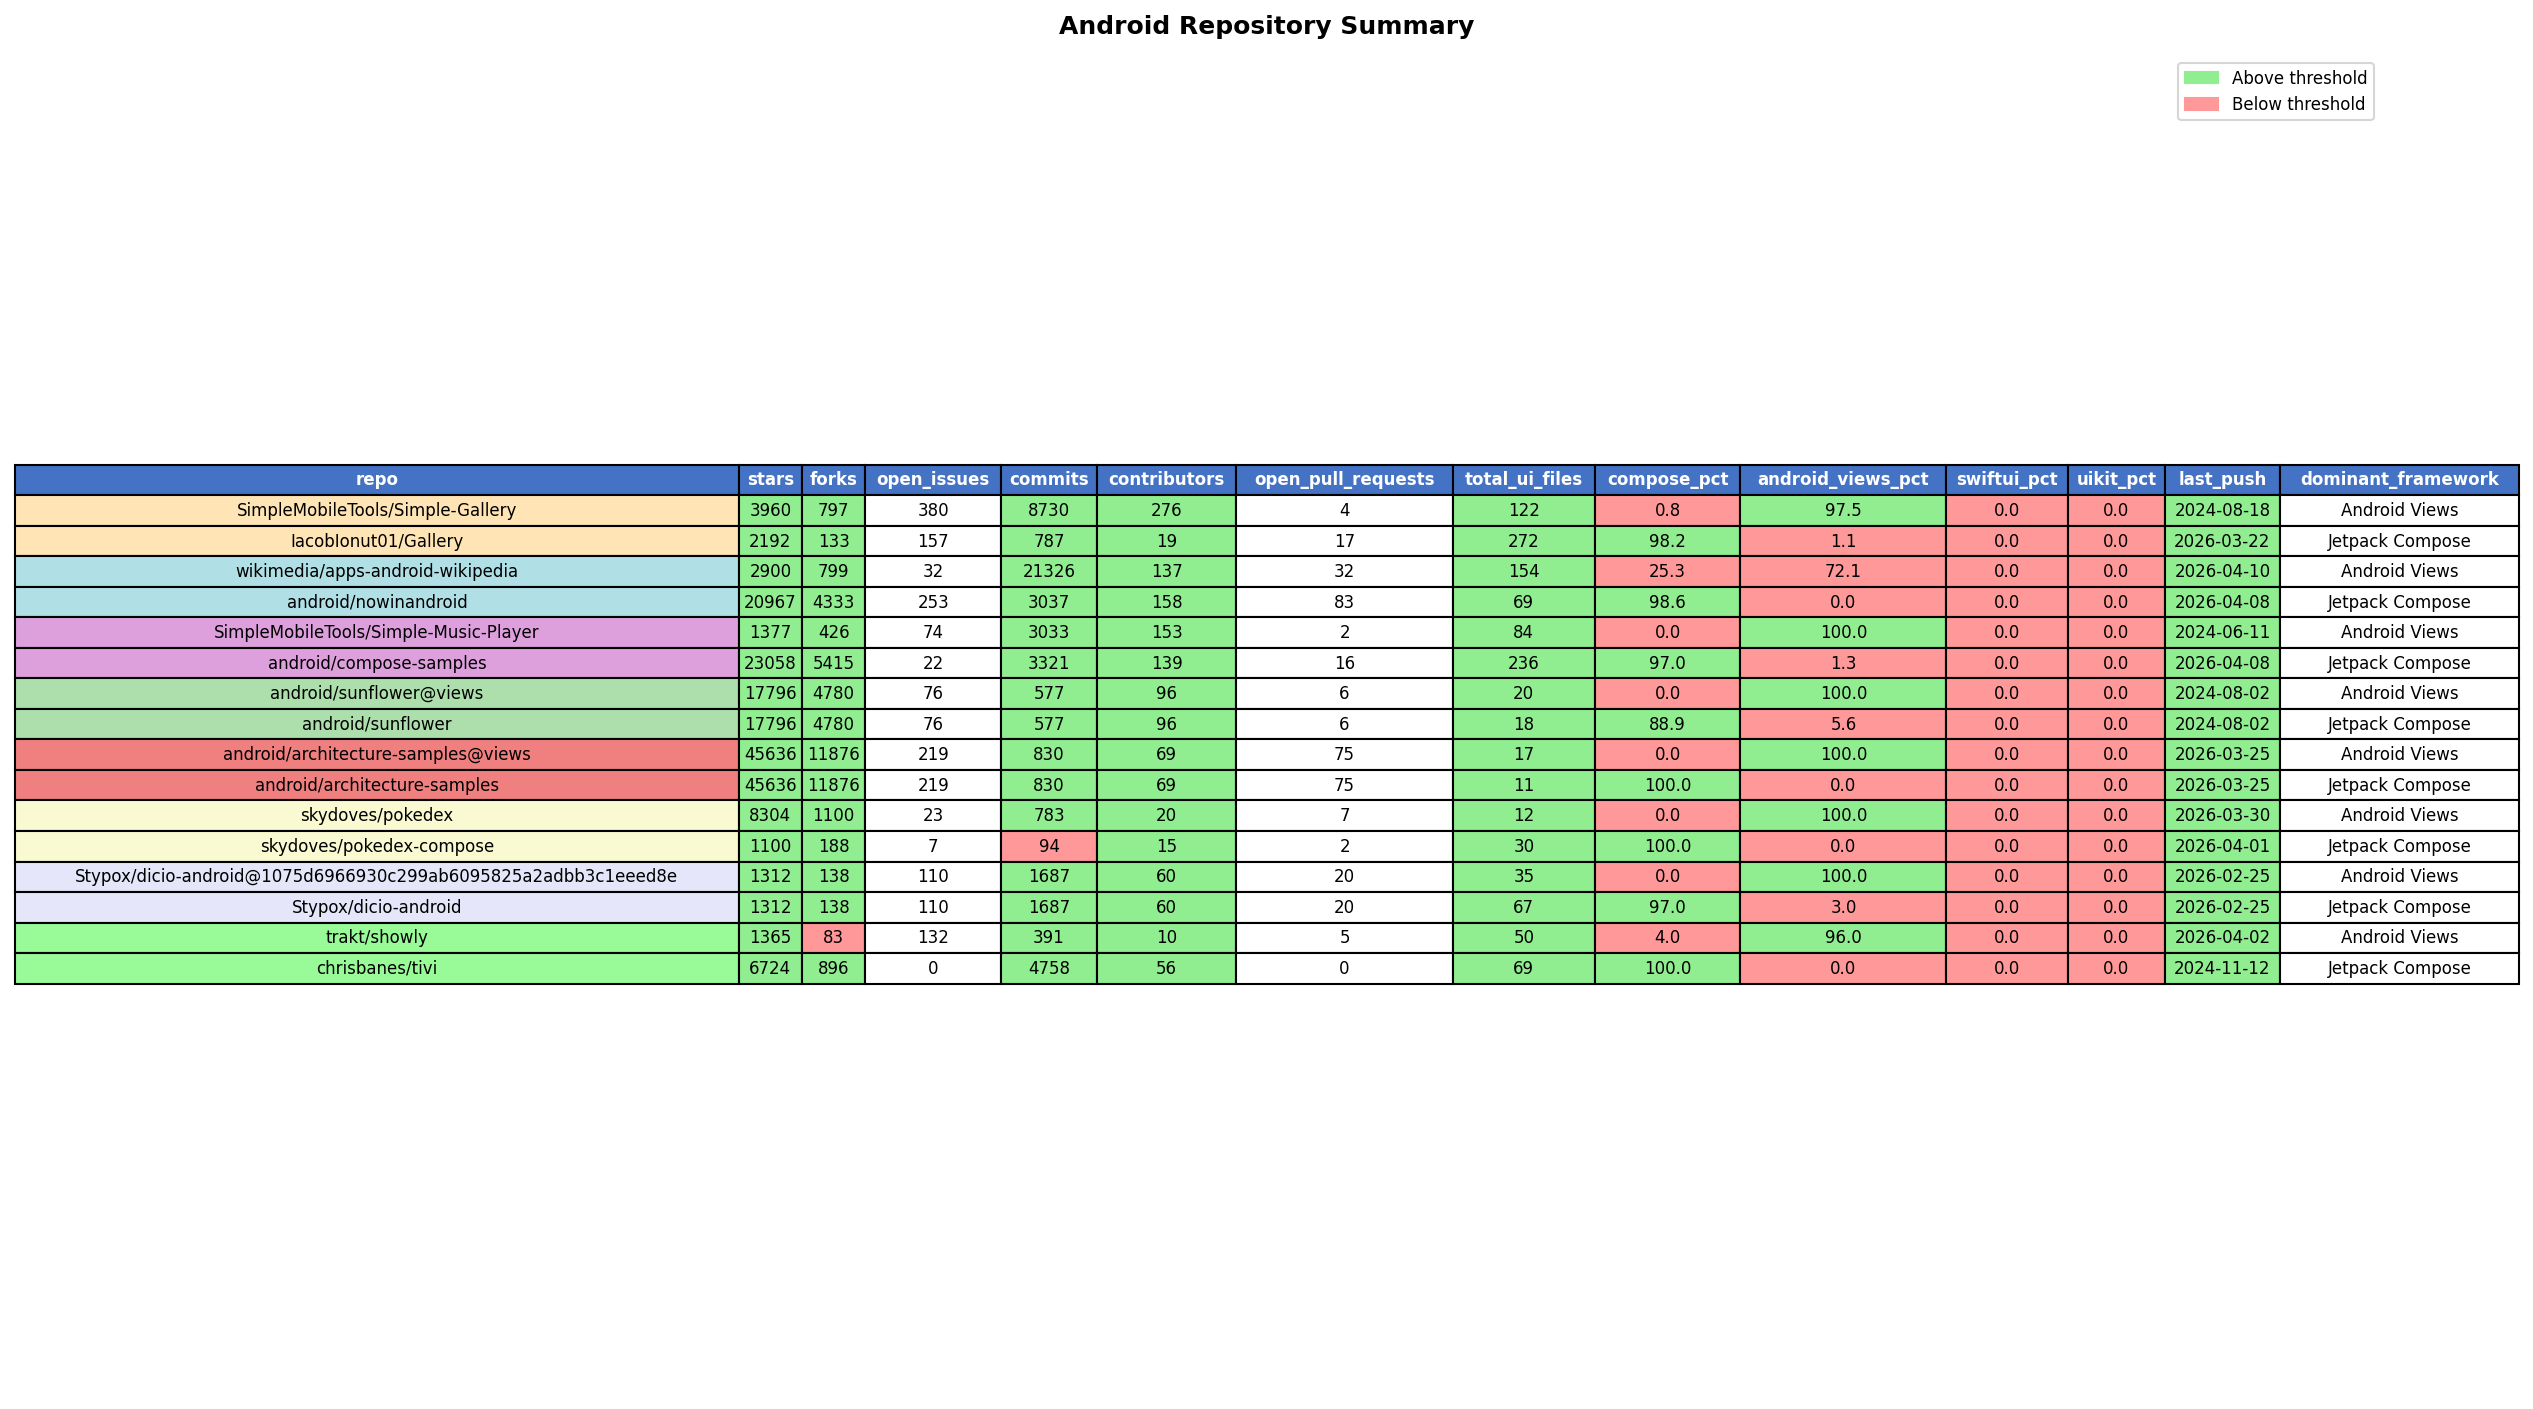
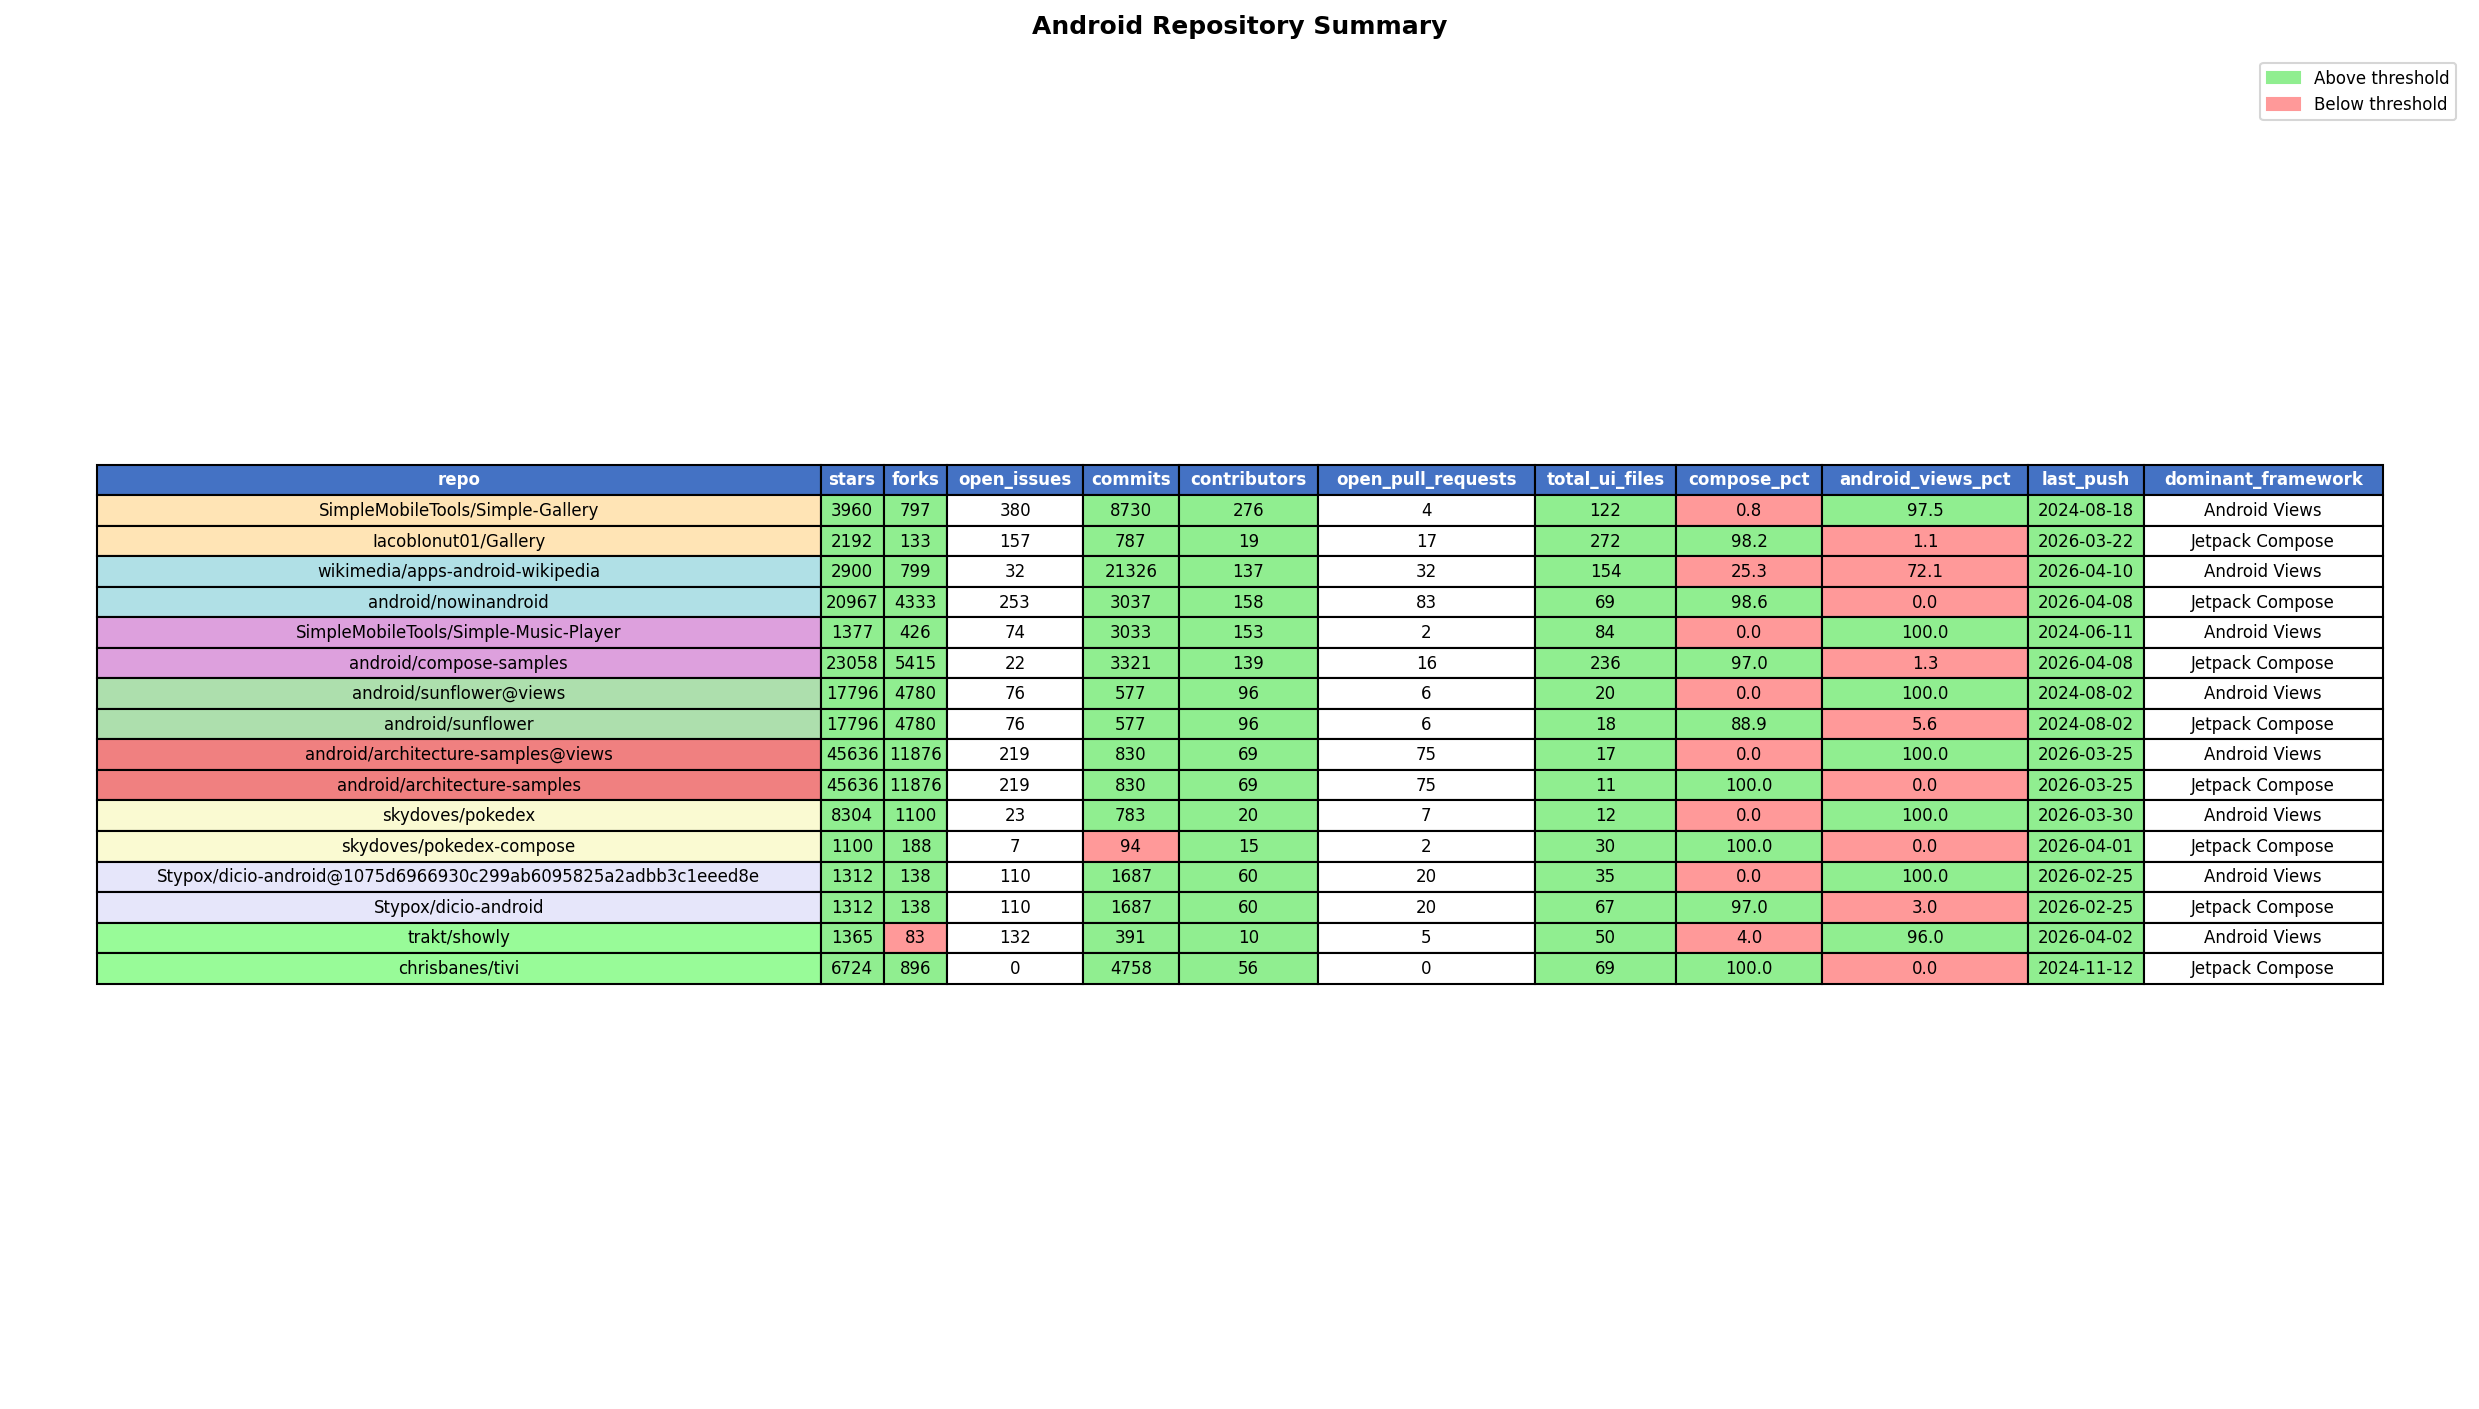
feat: clean up all repo summary table

diff --git a/scripts/plot_summary_table.py b/scripts/plot_summary_table.py
@@ -26,11 +26,18 @@ THRESHOLDS = {
 }
 
 # Columns to display
-DISPLAY_COLS = [
+ANDROID_DISPLAY_COLS = [
     "repo", "stars", "forks", "open_issues",
     "commits", "contributors", "open_pull_requests",
     "total_ui_files", "compose_pct", "android_views_pct",
-    "swiftui_pct", "uikit_pct", "last_push", "dominant_framework"
+    "last_push", "dominant_framework"
+]
+
+IOS_DISPLAY_COLS = [
+    "repo", "stars", "forks", "open_issues",
+    "commits", "contributors", "open_pull_requests",
+    "total_ui_files", "swiftui_pct", "uikit_pct",
+    "last_push", "dominant_framework"
 ]
 
 # --- Pairs for Android table ---
@@ -80,9 +87,9 @@ def get_color(col, val):
         return "white"
 
 
-def build_table(df, pairs):
+def build_table(df, pairs, display_cols):
     # Only keep columns that exist in this CSV
-    cols = [c for c in DISPLAY_COLS if c in df.columns]
+    cols = [c for c in display_cols if c in df.columns]
     display_df = df[cols].copy()
 
     cell_colors = []
@@ -99,8 +106,8 @@ def build_table(df, pairs):
     return display_df, cell_colors, cols
 
 
-def plot_table(df, pairs, title, output_png):
-    display_df, cell_colors, cols = build_table(df, pairs)
+def plot_table(df, pairs, title, output_png, display_cols):
+    display_df, cell_colors, cols = build_table(df, pairs, display_cols)
 
     fig, ax = plt.subplots(figsize=(18, max(4, len(display_df) * 0.5 + 1.5)))
     ax.axis("off")
@@ -133,8 +140,8 @@ def plot_table(df, pairs, title, output_png):
 
 # --- Generate Android table ---
 android_df = pd.read_csv("repo_summary.csv")
-plot_table(android_df, ANDROID_PAIRS, "Android Repository Summary", "repo_summary_table_android.png")
+plot_table(android_df, ANDROID_PAIRS, "Android Repository Summary", "repo_summary_table_android.png", ANDROID_DISPLAY_COLS)
 
 # --- Generate iOS table ---
 ios_df = pd.read_csv("repo_summary_ios.csv")
-plot_table(ios_df, IOS_PAIRS, "iOS Repository Summary", "repo_summary_table_ios.png")
+plot_table(ios_df, IOS_PAIRS, "iOS Repository Summary", "repo_summary_table_ios.png", IOS_DISPLAY_COLS)
